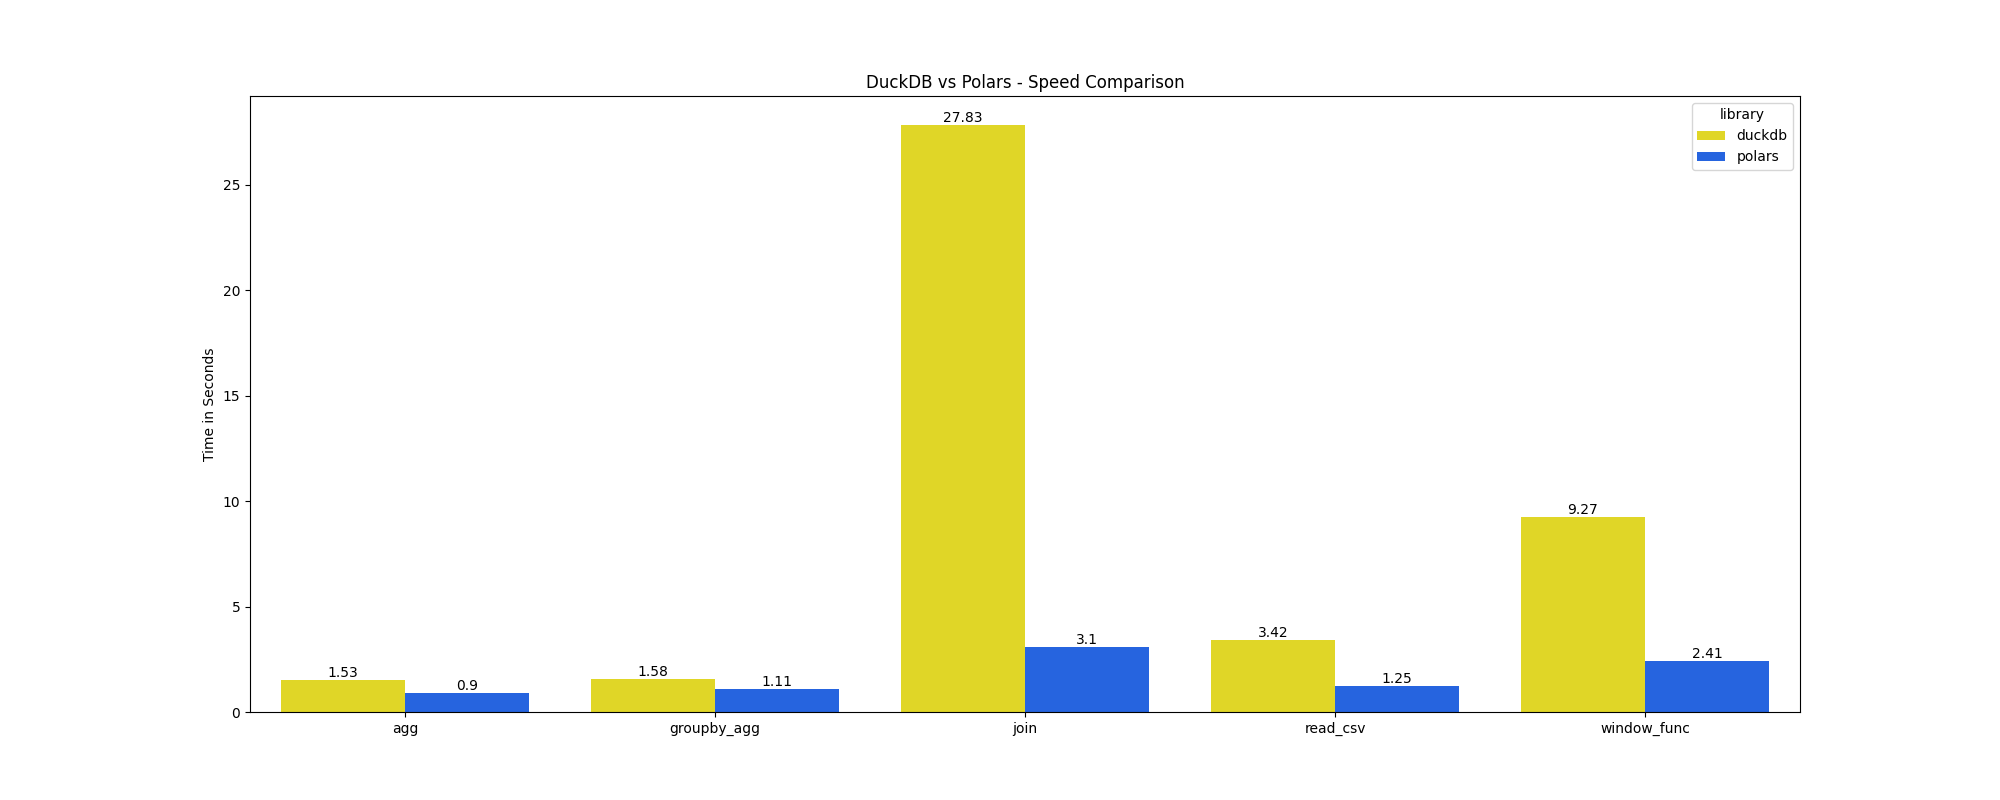
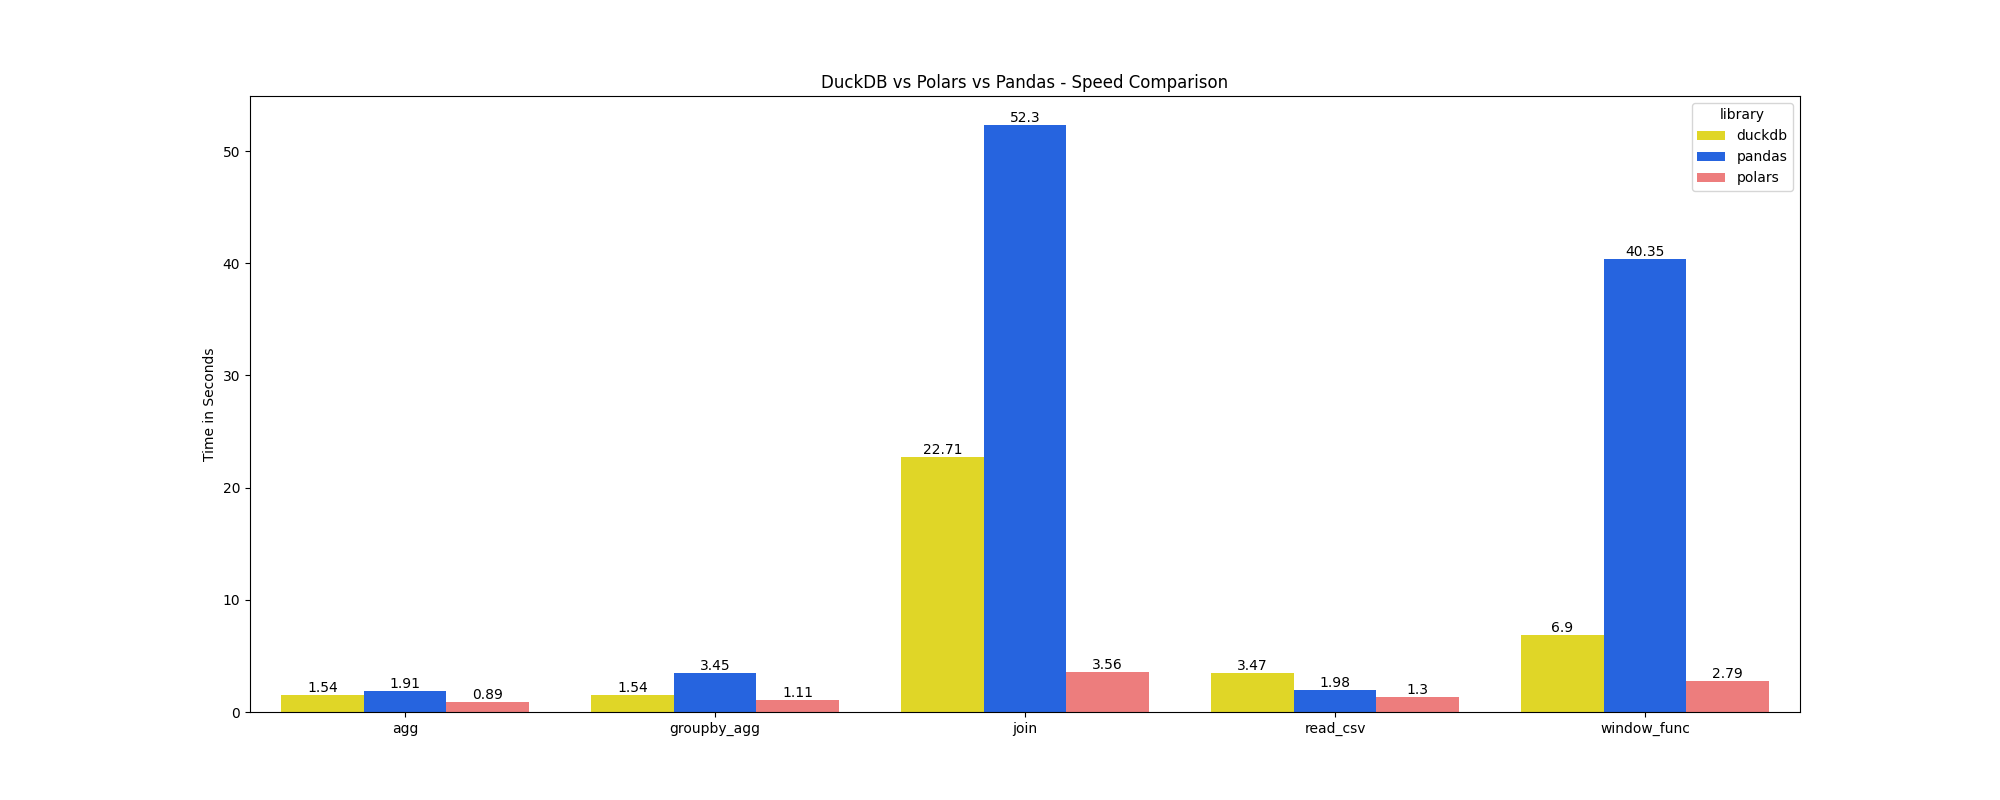
pandas added

diff --git a/duckdb_vs_polars_vs_fireducks/join_pandas.py b/duckdb_vs_polars_vs_fireducks/join_pandas.py
@@ -1,0 +1,17 @@
+import pandas as pd
+
+def join_pandas(file_path):
+    df = pd.read_csv(file_path, engine='pyarrow', dtype_backend='pyarrow')
+    df['pickup_month'] = pd.to_datetime(df['tpep_pickup_datetime'], format='%m/%d/%Y %I:%M:%S %p').dt.month
+    
+    agg_df = df.groupby(['VendorID', 'payment_type', 'pickup_month'])['total_amount'].sum().reset_index()
+    agg_df.columns = ['VendorID', 'payment_type', 'pickup_month', 'sum']
+    
+    return df.merge(
+        agg_df,
+        on=['VendorID', 'payment_type', 'pickup_month'],
+        how='inner'
+    )
+
+if __name__ == '__main__':
+    print(join_pandas('data/2021_Yellow_Taxi_Trip_Data.csv')) 

diff --git a/duckdb_vs_polars_vs_fireducks/visualize_output.py b/duckdb_vs_polars_vs_fireducks/visualize_output.py
@@ -13,13 +13,13 @@ def visualize_output(data):
         y='time in seconds', 
         hue='library', 
         errorbar=None, 
-        palette=['#FFF208', '#075AFE']
+        palette=['#FFF208', '#FF6B6B', '#075AFE']
     )
     
     for container in ax.containers:
         ax.bar_label(container)
-
+    
     ax.set(xlabel='', ylabel='Time in Seconds')
-    plt.title('DuckDB vs Polars - Speed Comparison')
+    plt.title('DuckDB vs Pandas vs Polars - Speed Comparison')
     plt.savefig('output.png')
     plt.show()

diff --git a/duckdb_vs_polars_vs_fireducks/window_func_pandas.py b/duckdb_vs_polars_vs_fireducks/window_func_pandas.py
@@ -1,0 +1,11 @@
+import pandas as pd
+
+def window_func_pandas(file_path):
+    df = pd.read_csv(file_path, engine='pyarrow', dtype_backend='pyarrow')
+    return pd.DataFrame({
+        'avg_fare_per_vendor': df.groupby('VendorID')['fare_amount'].transform('mean'),
+        'ttl_amt_rank_per_pay_type': df.groupby('payment_type')['total_amount'].rank(method='dense', ascending=False)
+    })
+
+if __name__ == '__main__':
+    print(window_func_pandas('data/2021_Yellow_Taxi_Trip_Data.csv')) 

diff --git a/duckdb_vs_polars_vs_fireducks/__main__.py b/duckdb_vs_polars_vs_fireducks/__main__.py
@@ -8,7 +8,7 @@ def main():
     outputs = []
     this_dir = pathlib.Path(__file__).parent
 
-    for benchmark in sorted(this_dir.glob('*[duckdb|polars].py')):
+    for benchmark in sorted(this_dir.glob('*[duckdb|polars|pandas].py')):
         module_name = func_name = benchmark.with_suffix('').name
         module = importlib.import_module(module_name)
         benchmark_function = getattr(module, func_name)

diff --git a/duckdb_vs_polars_vs_fireducks/groupby_agg_pandas.py b/duckdb_vs_polars_vs_fireducks/groupby_agg_pandas.py
@@ -1,0 +1,8 @@
+import pandas as pd
+
+def groupby_agg_pandas(file_path):
+    df = pd.read_csv(file_path, engine='pyarrow', dtype_backend='pyarrow')
+    return df.groupby(['VendorID', 'payment_type'])['total_amount'].agg(['sum', 'mean', 'min', 'max'])
+
+if __name__ == '__main__':
+    print(groupby_agg_pandas('data/2021_Yellow_Taxi_Trip_Data.csv')) 

diff --git a/duckdb_vs_polars_vs_fireducks/agg_pandas.py b/duckdb_vs_polars_vs_fireducks/agg_pandas.py
@@ -1,0 +1,8 @@
+import pandas as pd
+
+def agg_pandas(file_path):
+    df = pd.read_csv(file_path, engine='pyarrow', dtype_backend='pyarrow')
+    return df['total_amount'].agg(['sum', 'mean', 'min', 'max'])
+
+if __name__ == '__main__':
+    print(agg_pandas('data/2021_Yellow_Taxi_Trip_Data.csv')) 

diff --git a/duckdb_vs_polars_vs_fireducks/read_csv_pandas.py b/duckdb_vs_polars_vs_fireducks/read_csv_pandas.py
@@ -1,0 +1,7 @@
+import pandas as pd
+
+def read_csv_pandas(file_path):
+    return pd.read_csv(file_path, engine='pyarrow', dtype_backend='pyarrow')
+
+if __name__ == '__main__':
+    print(read_csv_pandas('data/2021_Yellow_Taxi_Trip_Data.csv')) 
